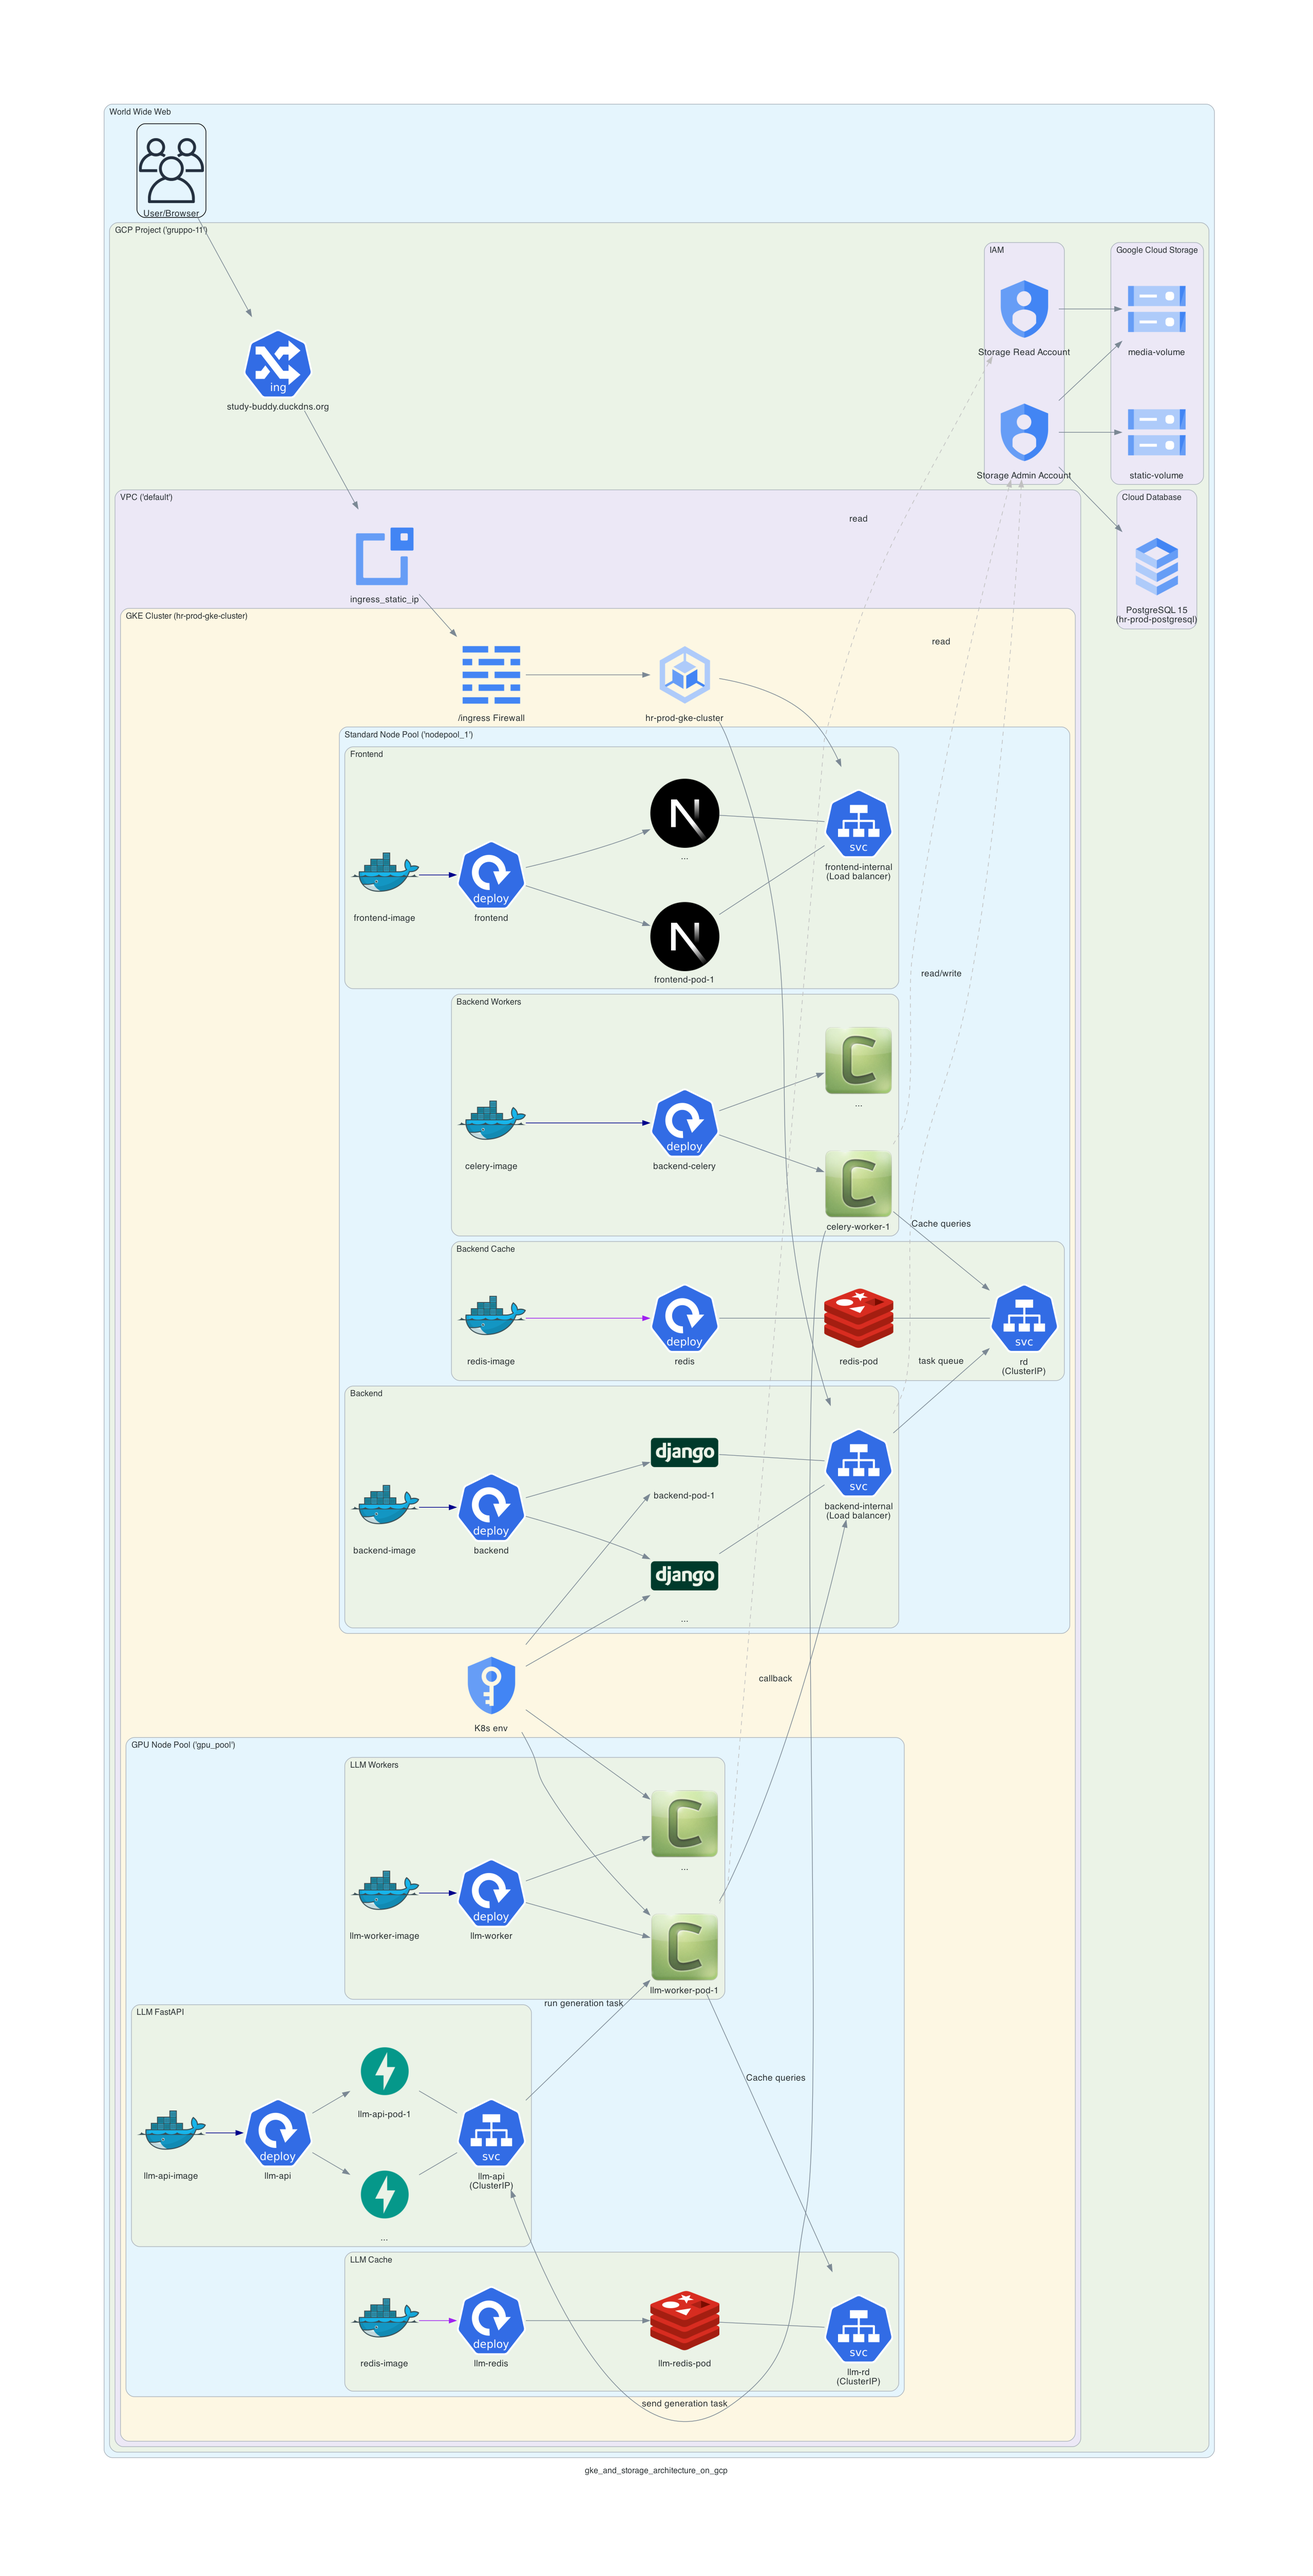
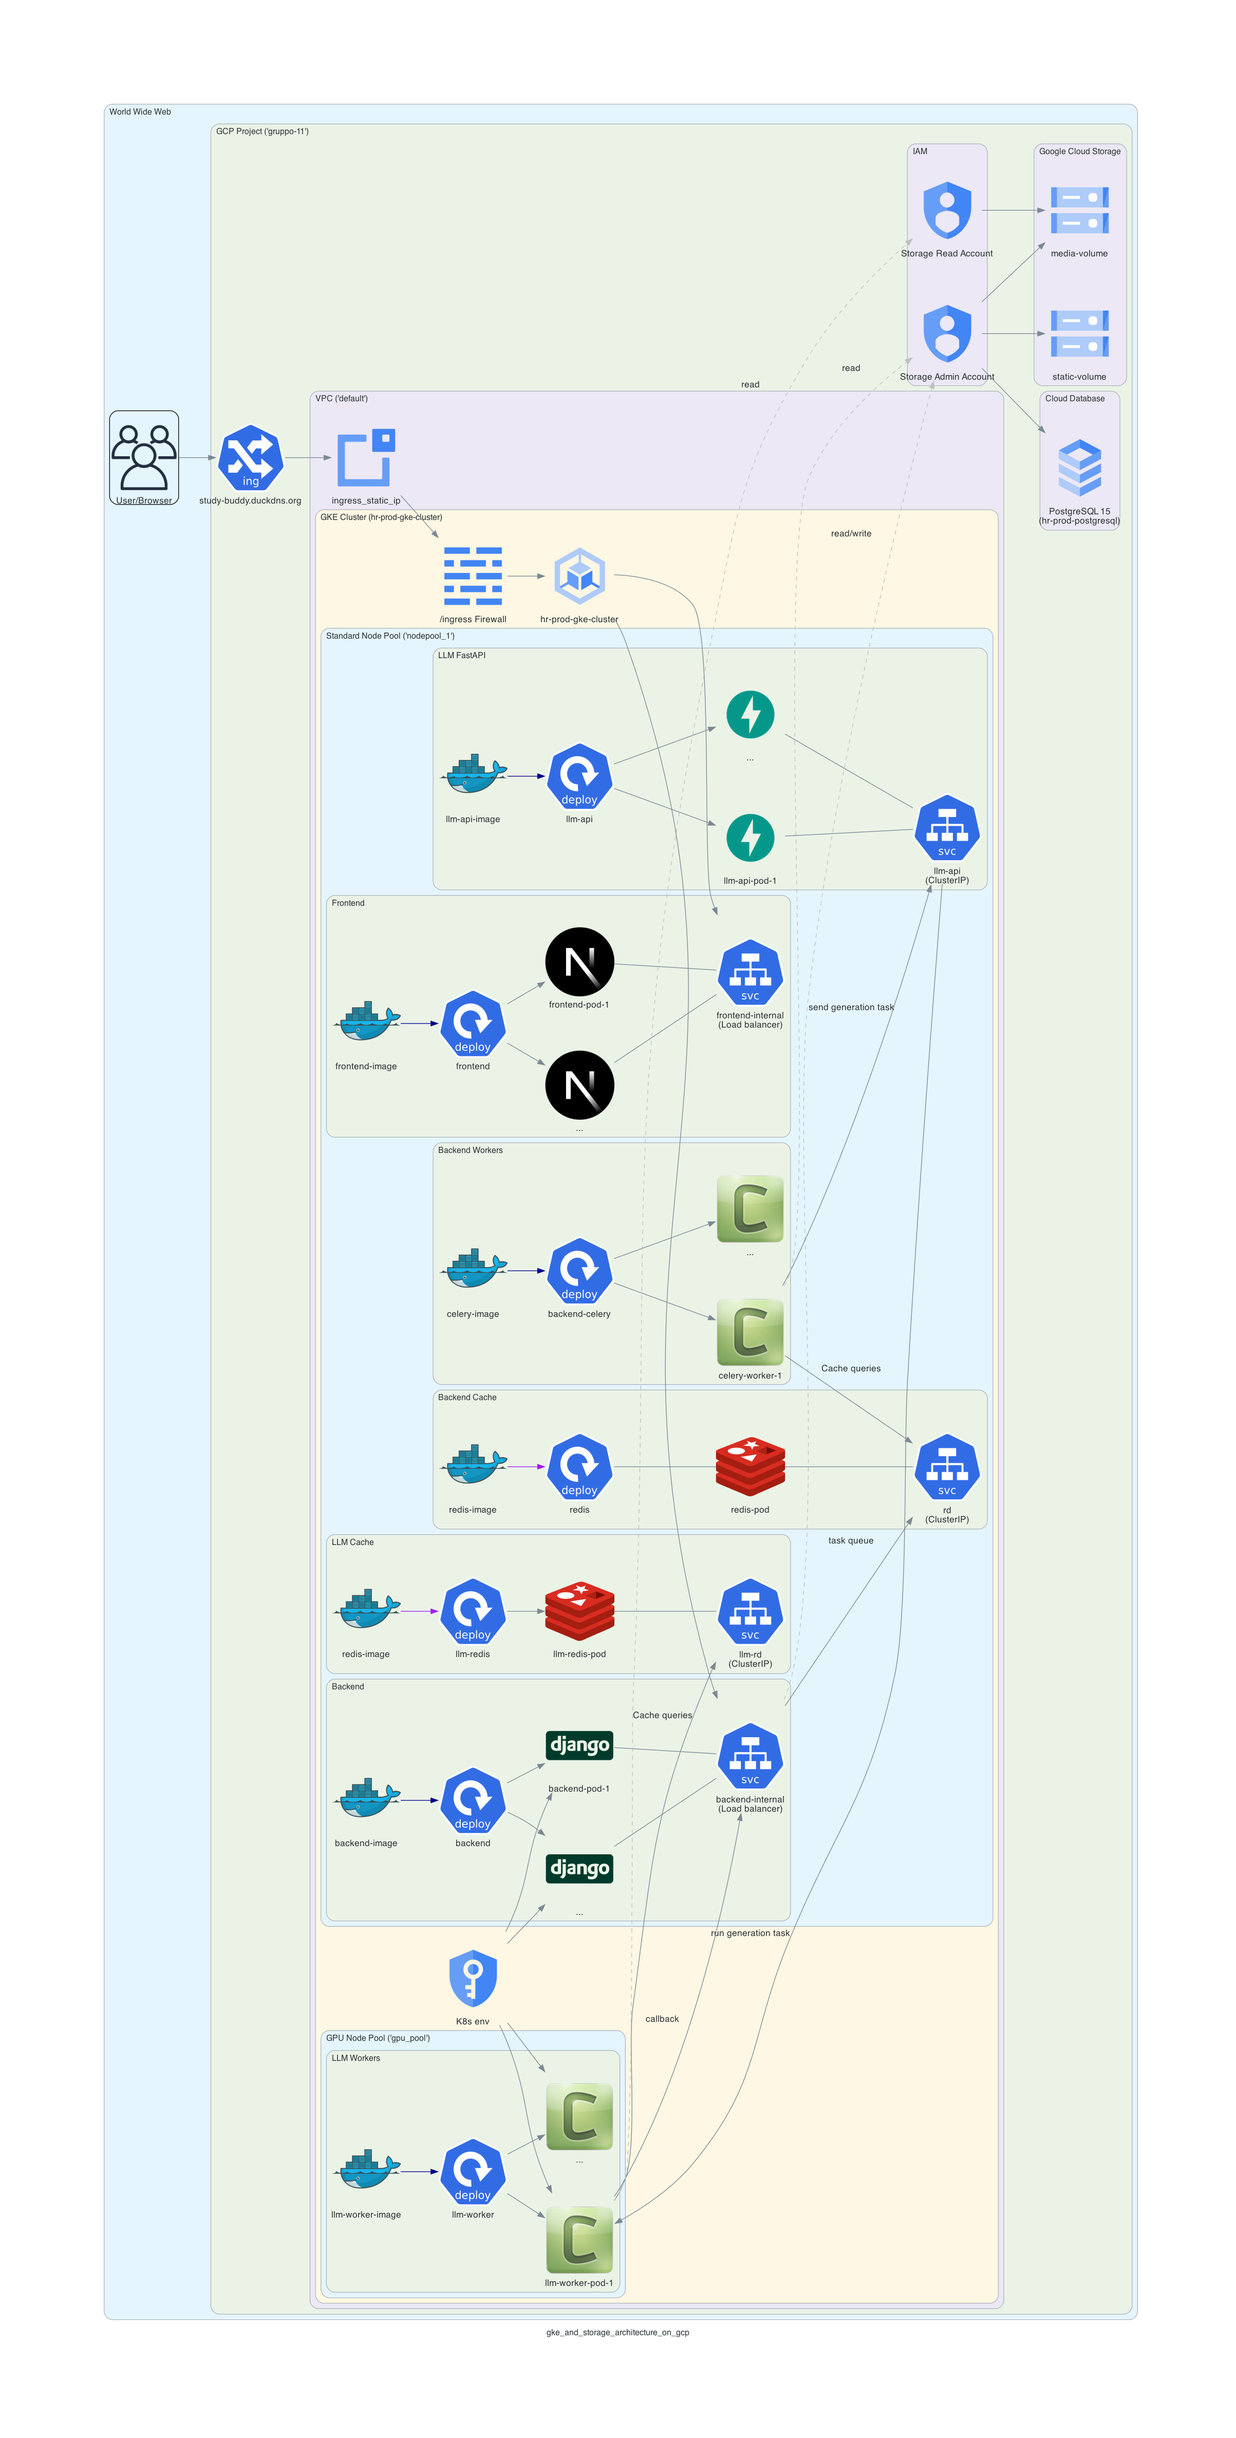
we love to see good documentation

diff --git a/architectural-diagram.py b/architectural-diagram.py
@@ -96,9 +96,7 @@ with Diagram("gke_and_storage_architecture_on_gcp", show=False, graph_attr=graph
                             redis_deploy - redis_pod
                             redis_vpa >> Edge(color="purple") >> redis_deploy
                             redis_pod - redis_svc
-                        
-                    # --- GPU Node Pool ---
-                    with Cluster("GPU Node Pool ('gpu_pool')"):
+
                         # --- LLM API ---
                         with Cluster("LLM FastAPI"):
                             llm_api_deploy = Deployment("llm-api")
@@ -109,14 +107,6 @@ with Diagram("gke_and_storage_architecture_on_gcp", show=False, graph_attr=graph
                             llm_api_svc = Service("llm-api\n(ClusterIP)")
                             llm_api_pods - llm_api_svc
 
-                        # --- LLM Celery Workers ---
-                        with Cluster("LLM Workers"):
-                            llm_worker_deploy = Deployment("llm-worker")
-                            llm_worker_pods = [Celery("llm-worker-pod-1"), Celery("...")]
-                            llm_worker_hpa = Docker("llm-worker-image")
-                            llm_worker_deploy >> llm_worker_pods
-                            llm_worker_hpa >> Edge(color="darkblue") >> llm_worker_deploy
-
                         # --- LLM Redis ---
                         with Cluster("LLM Cache"):
                             redis_deploy = Deployment("llm-redis")
@@ -126,6 +116,18 @@ with Diagram("gke_and_storage_architecture_on_gcp", show=False, graph_attr=graph
                             redis_deploy >> redis_pod
                             redis_vpa >> Edge(color="purple") >> redis_deploy
                             redis_pod - llm_redis_svc
+                        
+                    # --- GPU Node Pool ---
+                    with Cluster("GPU Node Pool ('gpu_pool')"):
+                        
+                        # --- LLM Celery Workers ---
+                        with Cluster("LLM Workers"):
+                            llm_worker_deploy = Deployment("llm-worker")
+                            llm_worker_pods = [Celery("llm-worker-pod-1"), Celery("...")]
+                            llm_worker_hpa = Docker("llm-worker-image")
+                            llm_worker_deploy >> llm_worker_pods
+                            llm_worker_hpa >> Edge(color="darkblue") >> llm_worker_deploy
+            
                         
     # --- Define Relationships ---
     
@@ -160,9 +162,5 @@ with Diagram("gke_and_storage_architecture_on_gcp", show=False, graph_attr=graph
     gcp_storage_admin >> static_bucket
     gcp_storage_admin >> pg_sql
     gcp_storage_read  >> media_bucket
-    # gcp_sa << Edge(label="impersonates (Workload Identity)", color="darkgreen") << k8s_sa
-    # k8s_sa >> Edge(label="is used by", style="dotted", color="darkgreen") >> backend_pods
-    # k8s_sa >> Edge(label="is used by", style="dotted", color="darkgreen") >> celery_pods
-    # k8s_sa >> Edge(label="is used by", style="dotted", color="darkgreen") >> nginx_pods
 
 # Diagram is generated

diff --git a/README.md b/README.md
@@ -1,40 +1,71 @@
-# study-buddy
+# study-buddy 🐾
 
-This is the Scalable and Reliable Services repository.
+This repository created for the Scalable and Reliable Services project examination. Now that it is over, we wish to document it for anybody else to deploy, fork, and learn from!
 
-# Objective
+# Objective 🌟
 
-Based on the amazing work by Sangio:
+Inspired by the amazing work by Sangio:
 [Study Friend](https://github.com/sangioai/study-friend)
 
-We believe our project could be a great help to others, along with a great use case for the power of scalable services on the cloud. The plan is to create a “Study Friend” which ingests materials the user wants to learn, and then exports a PDF guide in question <-> answer pair format.
+He created a local visual language model capable of ingesting PDF documents and producing question answer pairs.
 
-This will require a user interface where the PDF materials can be uploaded and downloaded, alongside backend storage to house them. The UI-UX will also have a signup, which we can use to rate limit users and keep their data sequestered.
-Alongside the frontend and backend, we will need LLM capabilities. We propose to learn and apply Mistral’s chat API, which provides us with free access to a state of the art model. We will also create a privacy focused option, which leverages a module in the cloud we spin up with Qwen2.5, Deepseek, or other models found on HuggingFace. This provides us experience with two types of deployment.
+The project is divided into three microservices
 
-We believe our project can run in the Function as Service (FaaS) stack, since Google Cloud will automatically scale to the number of users. If this level of abstraction does not provide enough flexibility we are comfortable with Docker and the Container as a Service (CaaS) framework. As of right now, the “Study Friend” concept works only locally.
+- Frontend: Hosts a NextJS website
 
-# Building Bricks
+- Backend: Coordinates the application through API's in Django
 
-1. Stateless Frontend (only user cookies are statefull)
-2. Stateless AI (model inference)
-3. Docker Backend (FastAPI)
-4. Docker Database (POSTGres)
+- LLM-Service: Consumes PDF files to generate markdown files
+
+
+# Local Testing and Deployment 🔨
+- In order to run the application locally, there are docker-compose files written for every microservice, in the folders of similar name to those services. 
+
+- For deployment, we have used google cloud GKE and a Terraform to automate this process. Also, there is a sample *terraform.tfvars.example* already present in the repo, which you can rename it to *terraform.tfvars* and use it for environment variables.
+
+**Quickstart**
+
+1) Go inside /terraform/infra and create a terraform.tfvars from the sample
+2) Run `terraform init`
+3) Run `terraform apply`
+4) Go inside /terraform/k8s and create another terraform.tfvars from the sample
+5) Run `terraform init`
+6) Run `terraform apply`
+
+Your project is now deployed on Google Kubernetes Engine!
+
+# Generate a DNS 🔎
+
+You need a DNS to create the SSL certificate to connect to the project over SSL with a URL. Use one you already own, or create on for free on [DuckDNS](https://www.duckdns.org). Then, put it inside the terraform.tfvars inside /terraform/k8s
+
+# Google Cloud Architecture 🫧
+
+![alt text](gke_and_storage_architecture_on_gcp.png)
+
+The project runs in Kubernetes for maximum performance and configuration. There are two parts in the CI/CD for automatic deployment, `cloudbuild.yaml` which builds the docker containers and publishes them to the Artifact Registry. This is important for Google Cloud, but not Docker Compose. To use it, set up a build trigger on Google Cloud that is integrated to your GitHub repo. Then, there are 3 flags in step zero, that have to be manually modified to `false` and committed to make that part build.
+
+ The other part is `./github/cicd-pipeline.yml` which lints the `/infra/k8s` and creates a GitHub issue with the proposed changes to be applied, that the repository owners must approve or deny. This is not critical to use the application, you can run all *terraform* commands locally.
+
+# Building Criteria
+
+1. Stateless Frontend (only user authentication on browser)
+2. Stateless LLM Service
+3. Minimal State Backend (SQL)
 
 ---
 
-## ⚙ Setup Instructions
+## Local Setup Instructions ⚙
 
 ### 1. 🔐 Create a `.env` file
 
 Make a copy of `.env.production.example` and rename it as `.env`. Then edit `.env` file as follows:
 
-- **Database** configurations. The following 3 variables are common between the current `.env` file you are currently building, and the `.env` from backend directory. In order not face conflict, they need to have similar values accross bothe `.env` files.  
+- **Database** configurations. The following 3 variables are common between the current `.env` file you are currently building, and the `.env` from backend directory. In order not face conflict, they need to have similar values across both `.env` files.  
   `NAME=your_db_name`
   `USER=your_db_user`
   `PASSWORD=your_db_password`
 
-## 2. 📦 Create Docker volumes and network
+## 2. Create Docker volumes and network 📦
 
 you must create the external volumes and network used by docker-compose.yml:
 
@@ -48,7 +79,7 @@ docker network create app-network
 docker network create llm-app-network
 ```
 
-## 3. 🚀 Run the containers
+## 3. Run the containers 🚀
 
 Start the application stack (remember to change directory to where `docker-compose.yml` file exists):
 

diff --git a/llm-service/README.md b/llm-service/README.md
@@ -1,11 +1,20 @@
 
----
+# LLM Service 🧠
 
-This is the LLM-service for the study-buddy project.
+This is a wrapper of the [Study Friend](https://github.com/ncridlig/study-friend) repository which runs PDF ingestion and markdown generation on a local computer. There are two Dockerfiles, `Dockerfile` is the FastAPI endpoint which the backend calls and `Dockerfile.cuda` is the GPU accelerated container that loads the HuggingFace model and performs inference.
 
-The main part is a celery worker which has study_friend, the inference Visual Language Model engine, built as a local package. Then there is an API which connects this service to the backend. Finally, there is redis store for persistence across different queries. It uses topics, image conversion storage, and finally the markdown output which is what is rendered by the frontend.
+You can manually send commands using PostMan. The callback is `http://localhost:8001/receive-task/` with a body that is at a minimum 
+```
+{
+  "task_id": 1,
+  "files": ["data/14-humans.pdf", "data/10-InformationArchitecture.pdf"]
+}
+```
+these files already exist for your convenience in testing. You can see additional arguments in `app/tasks.py` which are image_size, verbose, question_prompt, and answer_prompt. The main thing to implement is the backend and frontend API to expose these to the end user. The other thing to implement would be not hardcoding the model to the same Qwen4B parameter one, so we can switch to smarter ones.
 
----
+## Implementation details 👀
+
+The main part is a celery worker which has study_friend, the inference Visual Language Model engine, built as a local package. Then there is an API which connects this service to the backend. Finally, there is redis store for persistence across different queries. It uses topics, image conversion storage, and finally the markdown output which is what is rendered by the frontend. Markdown is sent and saved locally for debugging.
 
 ## ⚙ Setup Instructions
 

diff --git a/terraform/README.md b/terraform/README.md
@@ -1,0 +1,4 @@
+This module of the project takes care of creating the infrastructures and deployment of the 3 microservices.
+
+- Creating the infrastructures: Moving to the directory */infra*, you can find the terraform codes related to automatic creation of infrastructures. This directory is responsible for creation of items that are not frequently modified including the cluster, the node pools, the buckets, etc.
+- Deploying the microservices: Moving to the directory */k8s*, you can find the terraform codes related to automatic deployment of the microservice, along with settings needed to provide needed permissions for accessing the data of SQL db and the media files in buckets. 
